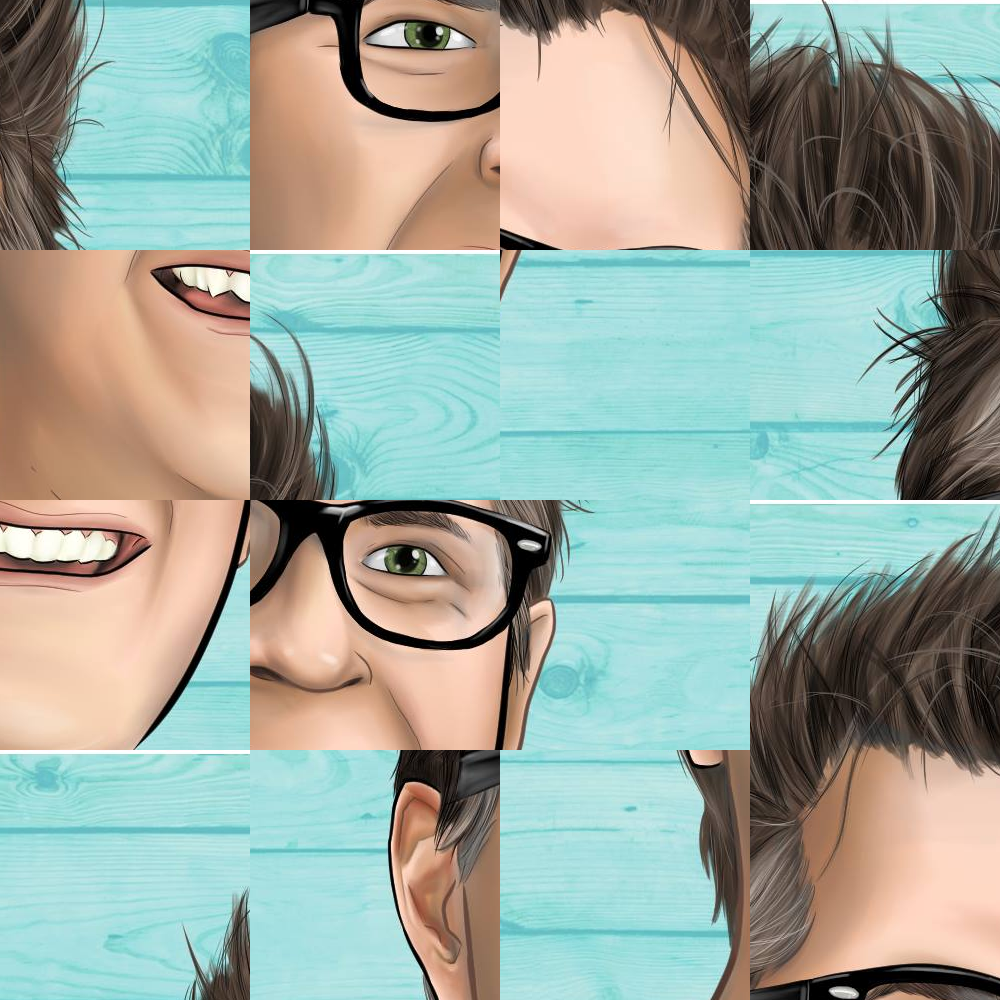
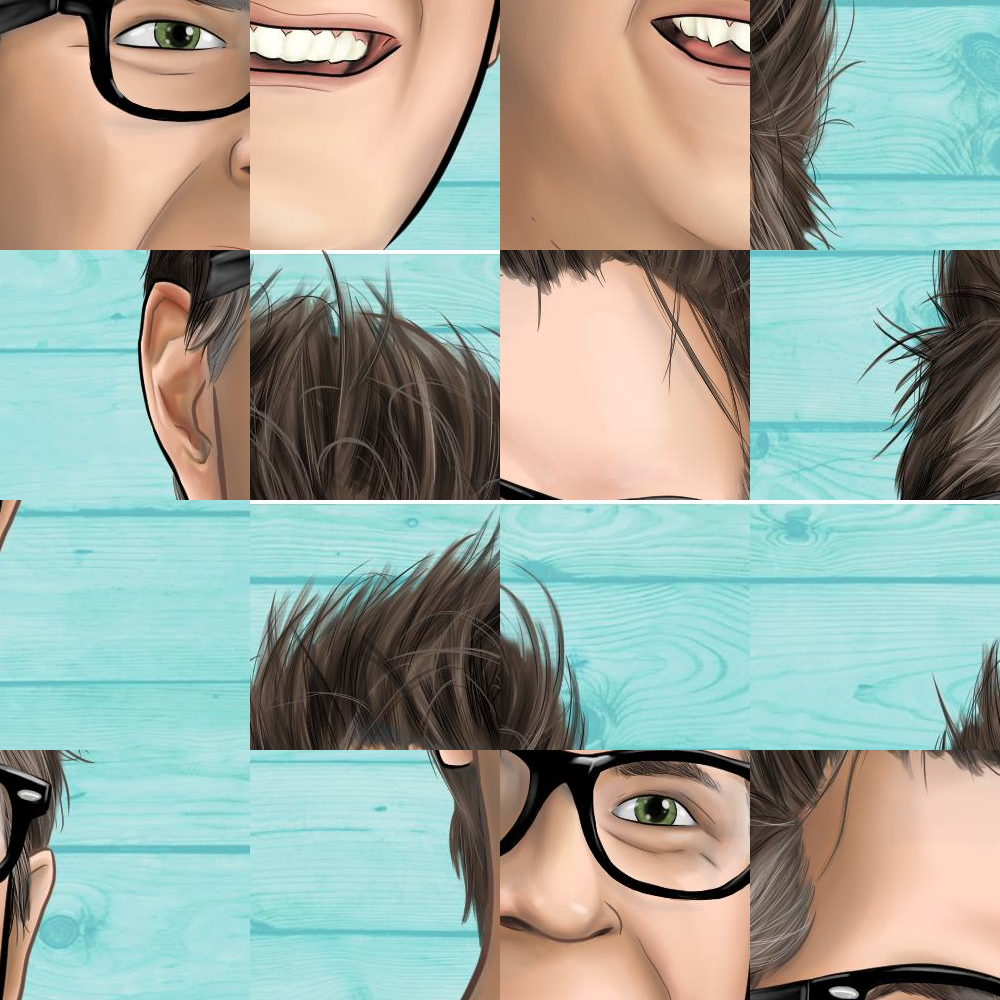
Algoritmo de ordenamiento "Terminado"

diff --git a/imageSlicing/main.cpp b/imageSlicing/main.cpp
@@ -11,7 +11,12 @@ using namespace std;
 
 
 
-
+//se le dice la cantidad de partes a las que se quiere dividir la imagen
+//el algoritmo saca el area que debe tener cada trozo segun el tamano de la imagen sin cortar
+//crea rectangulos(cuadrados) segun el area y corta
+//cada corte lo mete en un Mat, iterando con un for
+//desordena el Mat
+//vuelve a crear una imagen con esos trozos desordenados
 int main (){
     Mat imagen=imread("img1.png",1);            //carga la imagen
 
@@ -27,9 +32,6 @@ int main (){
     double trozo_Lado=pow(area_trozo,0.5);      //saca la raiz cuadrada para calcular el lado de cada trozo
 
     Mat array_De_Trozos[cantidad];              //crea un array para la cantidad de trozos que va a guardar
-
-
-
 
     int posi_X=0;                               //posicion x en la que se va a cortar los trozos
     int posi_Y=0;                               //posicion y en la que se va a cortar los trozos
@@ -79,14 +81,6 @@ int main (){
         array_De_Trozos[i]=desordenado[i];
     }
 
-
-
-
-
-
-
-
-
     Mat array_filas[cant_y];        //array con todas las filas
 
 
@@ -111,10 +105,10 @@ int main (){
     }
 
 
-    imwrite( "/home/eduelem/Dropbox/Genetic-Pathfinding-Backtrack/imageSlicing/imgs/sliced.png",  Columnas);   //guarda la parte que corto
+    imwrite( "sliced.png",  Columnas);   //guarda la parte que corto
 
 
-    waitKey();
+    //waitKey();
     return 1;
 
 }
